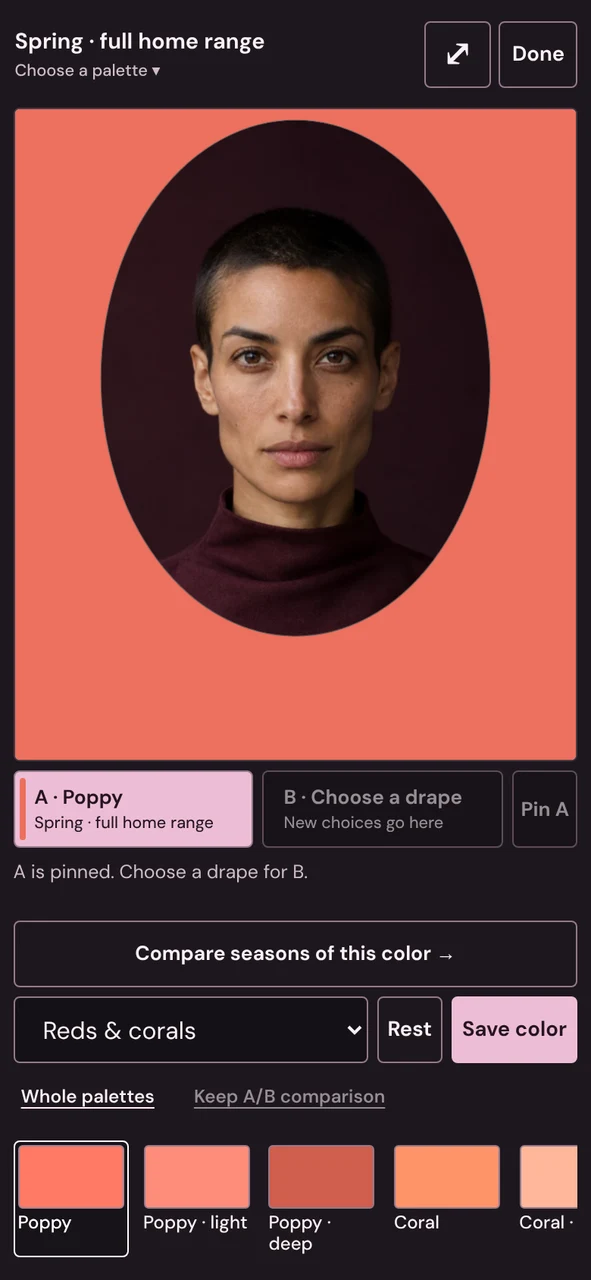
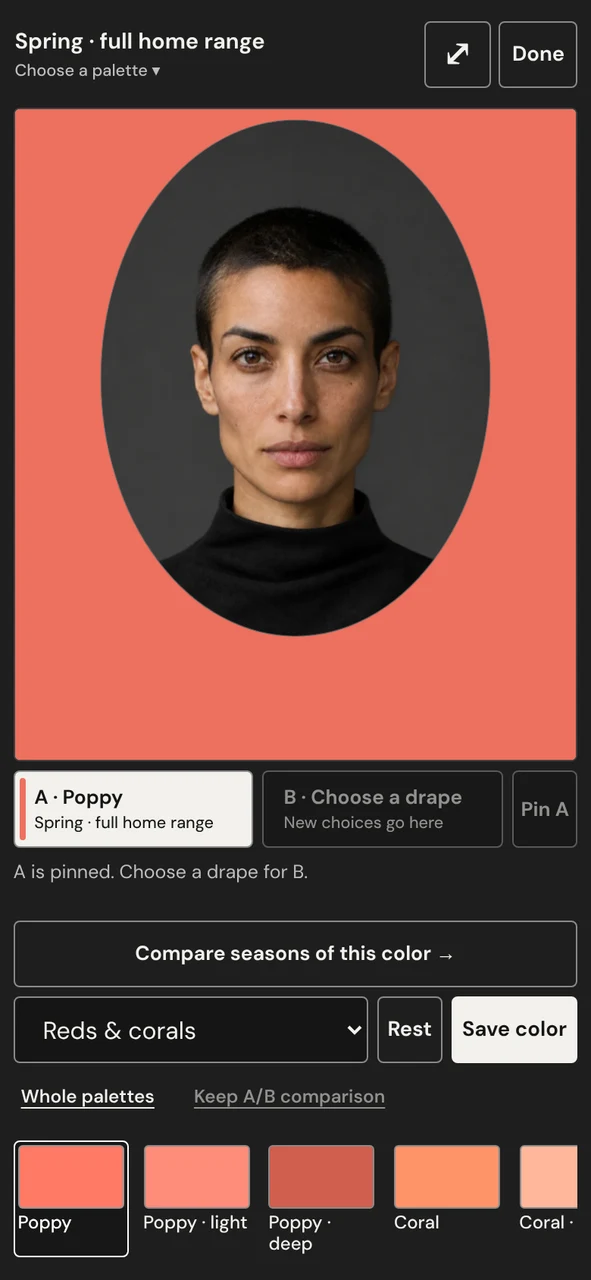
Use neutral black and bone throughout DRAPER

Changed region(s): [[0.1523, 0.0938, 0.8528, 0.5], [0.0, 0.5938, 0.4264, 0.6875], [0.7614, 0.7812, 1.0, 0.8438]]

diff --git a/dist/projects/draping-mirror/mirror.css b/dist/projects/draping-mirror/mirror.css
@@ -20,32 +20,32 @@
   color-scheme: light;
   font: 16px/1.45 "DM Sans", system-ui, sans-serif;
   --display: "Instrument Serif", Georgia, serif;
-  --background: #fbf6f6;
-  --panel: #fffafa;
-  --raised: #f4e9ee;
-  --text: #211720;
-  --muted: #61505d;
-  --line: #8c7685;
-  --hairline: #d7c6d0;
-  --accent: #722449;
-  --action: #702447;
-  --on-action: #fff8fc;
-  --focus: #802856;
+  --background: #F3F1EC;
+  --panel: #FAF9F6;
+  --raised: #E7E5DF;
+  --text: #181818;
+  --muted: #555555;
+  --line: #767676;
+  --hairline: #C7C5BF;
+  --accent: #242424;
+  --action: #242424;
+  --on-action: #F3F1EC;
+  --focus: #181818;
   --gutter: clamp(18px, 4vw, 62px);
 }
 :root[data-theme="dark"] {
   color-scheme: dark;
-  --background: #151116;
-  --panel: #1e171e;
-  --raised: #2b2028;
-  --text: #fbf1f6;
-  --muted: #cfbdca;
-  --line: #937a8c;
-  --hairline: #493946;
-  --accent: #efbdd9;
-  --action: #edbdd6;
-  --on-action: #25141f;
-  --focus: #ffd2e9;
+  --background: #151515;
+  --panel: #1E1E1E;
+  --raised: #292929;
+  --text: #F3F1EC;
+  --muted: #BEBEBE;
+  --line: #8A8A8A;
+  --hairline: #414141;
+  --accent: #F3F1EC;
+  --action: #F3F1EC;
+  --on-action: #151515;
+  --focus: #F3F1EC;
 }
 :root[data-large="true"] { font-size: 19px; }
 * { box-sizing: border-box; }
@@ -200,20 +200,20 @@ main { max-width: 1540px; margin-inline: auto; }
 .welcome-privacy { display: flex; gap: .6em; align-items: center; margin-top: 1.3rem; font-size: .8rem; color: var(--muted); }
 .privacy-mark { width: 10px; height: 8px; border: 1px solid currentColor; border-radius: 2px; position: relative; flex: none; }
 .privacy-mark::before { content: ""; position: absolute; border: 1px solid currentColor; border-bottom: 0; width: 6px; height: 5px; top: -6px; left: 1px; border-radius: 6px 6px 0 0; }
-.welcome-visual { position: relative; overflow: hidden; display: grid; grid-template-rows: 1fr auto; min-height: 0; border-inline: 1px solid var(--hairline); background: #291b25; }
+.welcome-visual { position: relative; overflow: hidden; display: grid; grid-template-rows: 1fr auto; min-height: 0; border-inline: 1px solid var(--hairline); background: #292929; }
 .hero-portrait { position: relative; min-height: 0; }
 .hero-portrait img { position: absolute; height: 100%; width: 100%; object-fit: cover; object-position: 50% 56%; }
 .hero-portrait::after {
   content: "";
   position: absolute;
   inset: 0;
-  background: linear-gradient(90deg, #23172460, transparent 26%, transparent 76%, #23172455);
+  background: linear-gradient(90deg, #15151560, transparent 26%, transparent 76%, #15151555);
   pointer-events: none;
 }
 .optical-mask {
   position: absolute;
   inset: 10% 12% 16%;
-  color: #fce6edeb;
+  color: #F3F1ECEB;
   pointer-events: none;
 }
 .optical-mask span { position: absolute; width: 27px; height: 27px; border: 0 solid currentColor; }
@@ -222,17 +222,8 @@ main { max-width: 1540px; margin-inline: auto; }
 .optical-mask span:nth-child(3) { inset: auto auto 0 0; border-width: 0 0 1px 1px; }
 .optical-mask span:nth-child(4) { inset: auto 0 0 auto; border-width: 0 1px 1px 0; }
 .optical-mask i { position: absolute; top: 19%; bottom: 19%; right: -5%; width: 7px; background: repeating-linear-gradient(to bottom, currentColor 0 1px, transparent 1px 12px); opacity: .62; }
-.hero-mark { position: absolute; left: 5%; top: 47%; color: #fce6ed; font: 1.45rem/1 monospace; }
-.welcome-visual figcaption { display: flex; justify-content: space-between; align-items: center; gap: .75rem; min-height: 48px; padding: .55rem .9rem; background: #241923; color: #fbebf3; font-size: .66rem; font-weight: 650; letter-spacing: .14em; }
-.hero-colors { display: flex; width: min(48%, 192px); height: 12px; }
-.hero-colors i { flex: 1; background: var(--chip); }
-.hero-colors i:nth-child(1) { --chip: #f4d8d6; }
-.hero-colors i:nth-child(2) { --chip: #ce8eaf; }
-.hero-colors i:nth-child(3) { --chip: #a13d62; }
-.hero-colors i:nth-child(4) { --chip: #562941; }
-.hero-colors i:nth-child(5) { --chip: #635b7f; }
-.hero-colors i:nth-child(6) { --chip: #426364; }
-.hero-colors i:nth-child(7) { --chip: #a59c67; }
+.hero-mark { position: absolute; left: 5%; top: 47%; color: #F3F1EC; font: 1.45rem/1 monospace; }
+.welcome-visual figcaption { display: flex; justify-content: space-between; align-items: center; gap: .75rem; min-height: 48px; padding: .55rem .9rem; background: #242424; color: #F3F1EC; font-size: .66rem; font-weight: 650; letter-spacing: .14em; }
 .site-footer { border-top: 1px solid var(--hairline); grid-template-columns: auto minmax(0, 1fr) auto; color: var(--muted); font-size: .81rem; align-items: start; }
 .site-footer > a { display: inline-grid; place-items: center; min-height: 44px; }
 .footer-brand { letter-spacing: .2em; align-self: start; padding-top: .82rem; color: var(--text); font-weight: 650; }
@@ -294,9 +285,9 @@ main { max-width: 1540px; margin-inline: auto; }
   position: absolute;
   width: clamp(32px, 9%, 62px);
   aspect-ratio: 1;
-  border: 2px dashed #fff9fc;
+  border: 2px dashed #FFFFFF;
   border-radius: 50%;
-  box-shadow: 0 0 0 1.5px #181118, inset 0 0 0 1px #181118;
+  box-shadow: 0 0 0 1.5px #181818, inset 0 0 0 1px #181818;
   transform: translate(-50%, -50%);
   pointer-events: none;
 }
@@ -369,7 +360,7 @@ dialog {
   overscroll-behavior: contain;
 }
 html:has(dialog[open]) { overflow: hidden; }
-dialog::backdrop { background: #110d16c4; }
+dialog::backdrop { background: #111111C4; }
 .sheet { width: 565px; }
 .sheet-heading, .explorer-heading, .viewer-heading, .viewer-controls { display: flex; justify-content: space-between; align-items: center; gap: .6rem; }
 .sheet-heading { margin-bottom: .85rem; }
@@ -412,16 +403,16 @@ dialog::backdrop { background: #110d16c4; }
   width: 24px; height: 24px;
   transform: translate(-50%, -50%);
   display: grid; place-items: center;
-  border: 2px solid #221721;
+  border: 2px solid #181818;
   border-radius: 50%;
-  background: #faf6fa;
-  color: #171218;
+  background: #F3F1EC;
+  color: #181818;
   box-shadow: 0 0 0 1px #fff;
   font-size: 12px;
   font-weight: 700;
   pointer-events: none;
 }
-.tone-marker[data-active="true"] { box-shadow: 0 0 0 2px #ffc8e4, 0 0 0 4px #221721; z-index: 1; }
+.tone-marker[data-active="true"] { box-shadow: 0 0 0 2px #F3F1EC, 0 0 0 4px #181818; z-index: 1; }
 .gray-toggle { justify-content: center; }
 .tonal-controls h3 { margin-bottom: .4em; }
 .tone-entries { display: grid; grid-template-columns: repeat(3, minmax(0, 1fr)); gap: .35rem; margin-top: .55rem; }
@@ -589,8 +580,8 @@ dialog::backdrop { background: #110d16c4; }
 .print-report { display: none; }
 @media print {
   @page { margin: 15mm; }
-  :root, :root[data-theme] { --text: #1f1820; --muted: #453743; --line: #564650; --hairline: #b7a9b3; font-size: 11pt; }
-  body { background: #fff; color: #1f1820; min-height: 0; }
+  :root, :root[data-theme] { --text: #181818; --muted: #454545; --line: #565656; --hairline: #B7B7B7; font-size: 11pt; }
+  body { background: #fff; color: #181818; min-height: 0; }
   html:has(.print-report > h1) body > :not(.print-report) { display: none !important; }
   .print-report { display: block; print-color-adjust: exact; -webkit-print-color-adjust: exact; }
   .print-report h1 { font-size: 39pt; }

diff --git a/dist/projects/index.html b/dist/projects/index.html
@@ -27,13 +27,19 @@
 .family-heading > p { margin: 0 0 5px; max-width: 42ch; color: #c5ccd5; }
 .project-family > .project-grid { margin-top: 25px; margin-bottom: 64px; }
 .project-grid .project h3 { font-size: clamp(27px,3vw,39px); font-weight: 520; letter-spacing: -.055em; line-height: 1.15; margin: 21px 0 11px; }
-.draper-thumbnail { position: relative; display: grid; grid-template-columns: 1fr .9fr; background: #1c131c; color: #fbedf4; text-decoration: none; }
+.draper-thumbnail { position: relative; display: grid; grid-template-columns: 1fr .9fr; background: #181818; color: #F3F1EC; text-decoration: none; }
 .draper-thumbnail > img { object-position: 50% 58%; min-height: 0; }
-.draper-thumbnail::after { content: ""; position: absolute; inset: 10% 7% 10% 55%; border: 1px solid #f4cee894; border-radius: 50%; pointer-events: none; }
+.draper-thumbnail::after { content: ""; position: absolute; inset: 10% 7% 10% 55%; border: 1px solid #F3F1EC94; border-radius: 50%; pointer-events: none; }
 .draper-thumbnail-copy { display: flex; flex-direction: column; justify-content: center; gap: .35em; min-width: 0; padding: 12%; }
 .draper-thumbnail-name { font-family: Georgia, serif; font-size: clamp(25px, 5vw, 60px); line-height: 1; letter-spacing: -.045em; }
-.draper-thumbnail-caption { color: #edbbd7; font-family: var(--mono); font-size: clamp(9px, 1.15vw, 12px); letter-spacing: .1em; text-transform: uppercase; }
-.draper-thumbnail-strip { height: 7px; width: 85%; margin-top: .62em; background: linear-gradient(90deg, #f4d8d6 0 20%, #ce8eaf 20% 40%, #a13d62 40% 60%, #635b7f 60% 80%, #426364 80%); }
+.draper-thumbnail-caption { color: #BEBEBE; font-family: var(--mono); font-size: clamp(9px, 1.15vw, 12px); letter-spacing: .1em; text-transform: uppercase; }
+.project--draper { background: #181818; color: #F3F1EC; border-color: #767676; }
+.project--draper::before { background: #F3F1EC border-box; }
+.project--draper .thumbnail { border-color: #565656; }
+.project--draper :is(.project-meta, .project-desc, .small-note) { color: #BEBEBE; }
+.project--draper .tags li { color: #BEBEBE; border-color: #767676; }
+.project--draper .launch { background: #F3F1EC; color: #181818; }
+
 .laboratory { border-top: 1px solid #626d78; padding-top: 4px; }
 .laboratory .family-heading h2 { font-family: Georgia,"Times New Roman",serif; font-style: italic; letter-spacing: -.065em; }
 .lab-feature { display: grid; grid-template-columns: 1.05fr .95fr; background: #e5e9ee; color: #111214; overflow: hidden; border: 1px solid #bec9d4; min-height: 425px; }
@@ -119,8 +125,8 @@
         <p class="small-note">Independent proof of concept. Example styles are not City of Portland-approved designs; human review is still required for translations and accessibility.</p>
       </div>
     </article>
-      <article class="project project--beam">
-        <a class="thumbnail draper-thumbnail" href="/projects/draping-mirror/"><span class="draper-thumbnail-copy"><span class="draper-thumbnail-caption">Personal color studio</span><span class="draper-thumbnail-name">DRAPER</span><span class="draper-thumbnail-strip"></span></span><img src="/projects/draping-mirror/studio-portrait.webp" alt="" width="880" height="1320" loading="lazy"></a>
+      <article class="project project--beam project--draper">
+        <a class="thumbnail draper-thumbnail" href="/projects/draping-mirror/"><span class="draper-thumbnail-copy"><span class="draper-thumbnail-caption">Personal color studio</span><span class="draper-thumbnail-name">DRAPER</span></span><img src="/projects/draping-mirror/studio-portrait-neutral.webp" alt="" width="880" height="1320" loading="lazy"></a>
         <div class="project-body">
           <div class="project-meta"><span>Personal color</span></div>
           <h3>DRAPER</h3>

diff --git a/dist/projects/draping-mirror/index.html b/dist/projects/draping-mirror/index.html
@@ -3,7 +3,7 @@
 <head>
   <meta charset="utf-8">
   <meta name="viewport" content="width=device-width, initial-scale=1, viewport-fit=cover">
-  <meta name="theme-color" content="#151116">
+  <meta name="theme-color" content="#151515">
   <meta name="description" content="Explore the colors you want to wear with DRAPER, a free personal color studio. Compare seasonal palettes and use Contrast Finder. Your portrait stays on your device.">
   <title>DRAPER — Personal color studio</title>
   <link rel="icon" href="mark.svg" type="image/svg+xml">
@@ -39,10 +39,10 @@
       <p class="welcome-privacy"><span class="privacy-mark" aria-hidden="true"></span>Free to use. Your portrait stays on this device.</p>
     </div>
     <figure class="welcome-visual">
-      <div class="hero-portrait"><img src="studio-portrait.webp" width="880" height="1320" alt="Studio portrait of a person with short dark hair, softly lit against a plum backdrop" fetchpriority="high"></div>
+      <div class="hero-portrait"><img src="studio-portrait-neutral.webp" width="880" height="1320" alt="Studio portrait of a person with short dark hair, wearing a black top against a neutral gray backdrop" fetchpriority="high"></div>
       <div class="optical-mask" aria-hidden="true"><span></span><span></span><span></span><span></span><i></i></div>
       <div class="hero-mark" aria-hidden="true">+</div>
-      <figcaption><span>THE DRAPING MIRROR</span><span class="hero-colors" aria-hidden="true"><i></i><i></i><i></i><i></i><i></i><i></i><i></i></span></figcaption>
+      <figcaption><span>THE DRAPING MIRROR</span></figcaption>
     </figure>
   </section>
   <noscript><p class="noscript">DRAPER uses JavaScript to process images in your browser.</p></noscript>

diff --git a/DRAPING-MIRROR.md b/DRAPING-MIRROR.md
@@ -49,7 +49,7 @@ The browser suite uses Playwright Chromium and WebKit and axe-core checks across
 - [NIST on digital-camera color error](https://www.nist.gov/publications/color-error-digital-camera-image-capture-process) and [material color and appearance](https://www.nist.gov/publications/chapter-10-color-and-appearance).
 - [CSS Color 4 on OKLCH](https://www.w3.org/TR/css-color-4/#ok-lab) and [WCAG 2.2 on alternatives to dragging](https://www.w3.org/WAI/WCAG22/Understanding/dragging-movements).
 - [MediaPipe Face Landmarker for Web](https://developers.google.com/edge/mediapipe/solutions/vision/face_landmarker/web_js).
-- The DRAPER portrait is a generated sample. DM Sans and Instrument Serif are self-hosted with their licenses in the project font directory.
+- The DRAPER portrait is a generated sample with a neutral gray backdrop and black clothing. DM Sans and Instrument Serif are self-hosted with their licenses in the project font directory.
 
 
 ## Neutral palettes between seasons
@@ -68,3 +68,8 @@ Each collection contains 66 colored drapes, 12 neutrals, and eight simulated met
 The season classifier continues to use recorded comparisons. Choosing a collection records a palette to explore. It appears as **Palette explored** in results, printable reports, and palette PNGs, and in the optional `collection` field of analysis JSON. Neutral collections provide palette ideas without assigning a primary season. Existing original ranges retain their colors and authored slots. Same-color cycling includes the 20 original ranges and the four neutral collections, with the starting swatch pinned as A.
 
 **Choose a palette** groups the home seasons and neutral collections. The range selector appears for home seasons. **Fine-tune this palette** opens the optional three-axis refinements. From a whole-palette flag, **Try these drapes** opens that collection directly. The primary-season checkpoint links to neutral flags for visitors exploring between families.
+
+
+## Interface color
+
+Both themes use neutral black, grayscale, and bone. This applies to surfaces, buttons, focus and selection indicators, dialogs, guide markers, the project card, and exported report typography and backgrounds. The portrait and actual drape or palette swatches supply color. The generated sample has a gray backdrop and black clothing. The welcome and project card use the same neutral identity.
